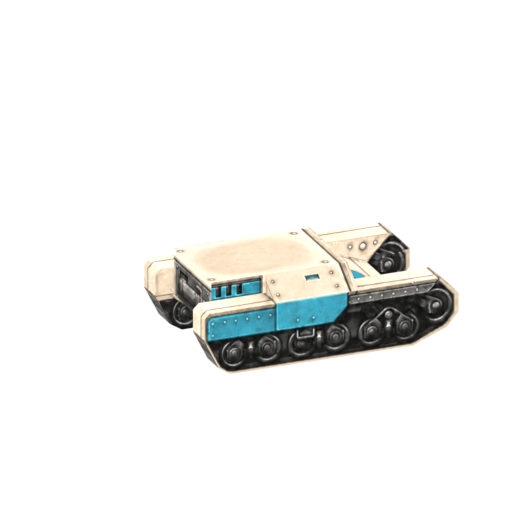
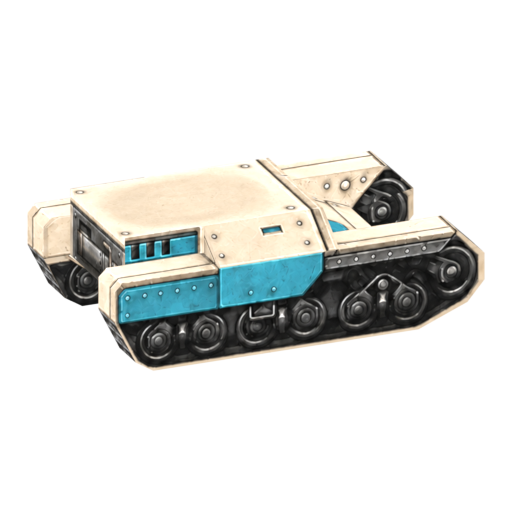
ASSET-FIX-02A: fix Wasp cyan m0 hull sprites

Changed region(s): [[0.0312, 0.2812, 0.9688, 0.75]]

diff --git a/docs/project/ASSET_FIX_02A_WASP_CYAN_M0_HULL_2026_06_14.md b/docs/project/ASSET_FIX_02A_WASP_CYAN_M0_HULL_2026_06_14.md
@@ -1,0 +1,60 @@
+## ASSET-FIX-02A — Wasp cyan m0 hull sprites
+
+Date: 2026-06-14
+
+### Scope
+
+- Replaced only the 16 files under `public/assets/units/hulls/wasp/cyan/m0/wasp_cyan_m0_dir*.png`.
+- No runtime code changed.
+- No renderer code changed.
+- No loader code changed.
+- No metadata JSON changed.
+- No turret assets changed.
+
+### Root Cause
+
+The repo contained two Wasp cyan m0 hull sets in the same folder:
+
+- bad target set: `wasp_cyan_m0_dir*.png`
+- healthy sibling set: `wasp_cyan_m0_hull_dir*.png`
+
+The bad target set used the correct filenames and 512x512 frame size, but its rendered hull occupied a much smaller alpha footprint and did not match the projection/scale family used by Wasp `m1/m2/m3` and the other approved hulls.
+
+The sibling `_hull_` set already matched the expected fixed-frame contract and the healthy Wasp controls, so this fix replaced the bad target files one-for-one from that compatible source set.
+
+### Replacement Count
+
+- Replaced files: 16
+- Paths and filenames preserved: yes
+- Frame size preserved: `512x512`
+- Alpha/transparency preserved: yes
+
+### Validation
+
+- `git status --short`
+  - only 16 modified files, all under `public/assets/units/hulls/wasp/cyan/m0/`
+- `npm run typecheck`
+  - PASS
+- `npm run build`
+  - PASS
+- `npm run test -- src/__tests__/modularRuntime01.test.ts`
+  - PASS (`37` tests)
+
+### Manual QA
+
+Live QA was run in the devtools modular preview (`?skipMenu&devtools=1&arena=1`):
+
+- Wasp `m0` + Smoky `m0`
+  - PASS
+- Wasp `m0` + Railgun `m3`
+  - PASS
+- Wasp `m1` + Smoky `m1` control
+  - PASS
+- Dictator `m0` + Smoky `m0` control
+  - PASS
+
+Observed result:
+
+- Wasp `m0` now renders at the same projection/scale family as the healthy Wasp controls.
+- Modular composition remained available in all QA combinations.
+- No code-path regressions were introduced by this asset-only fix.
